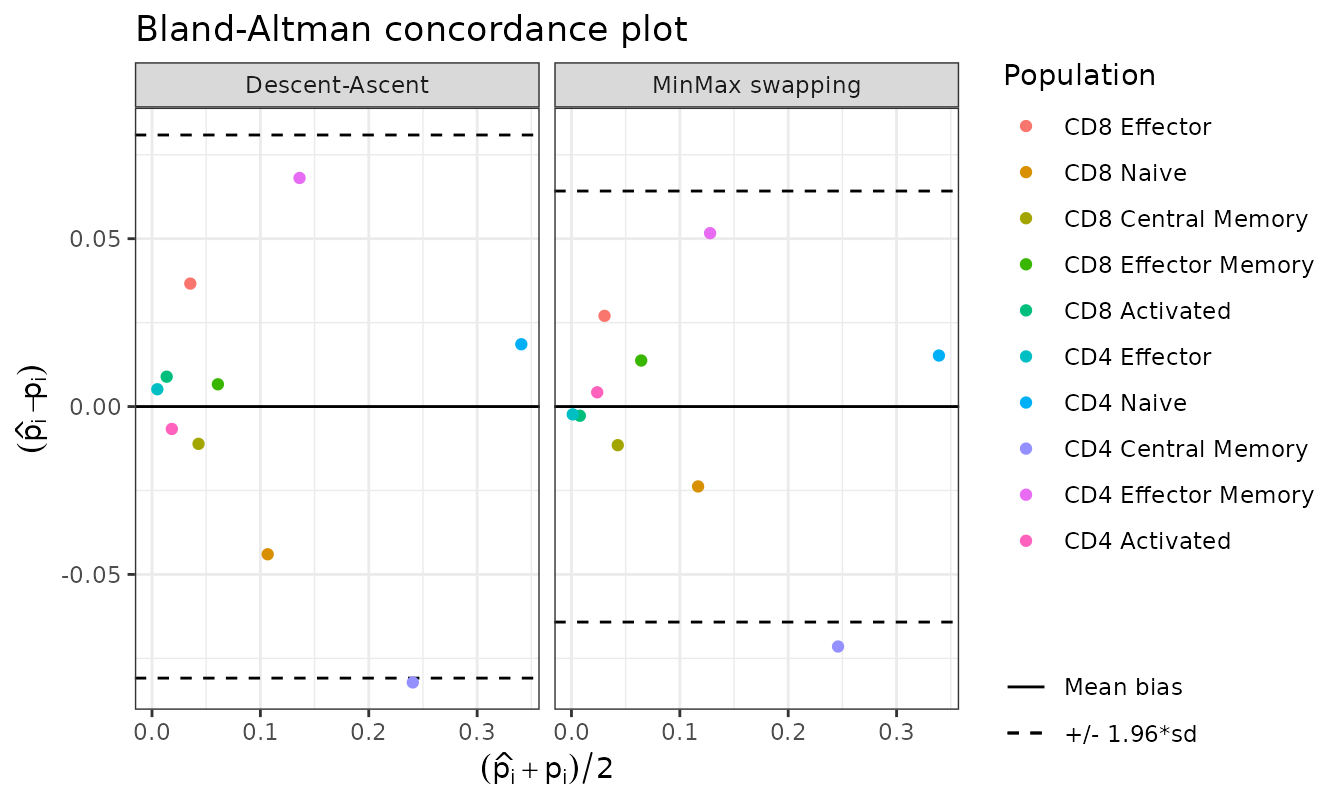
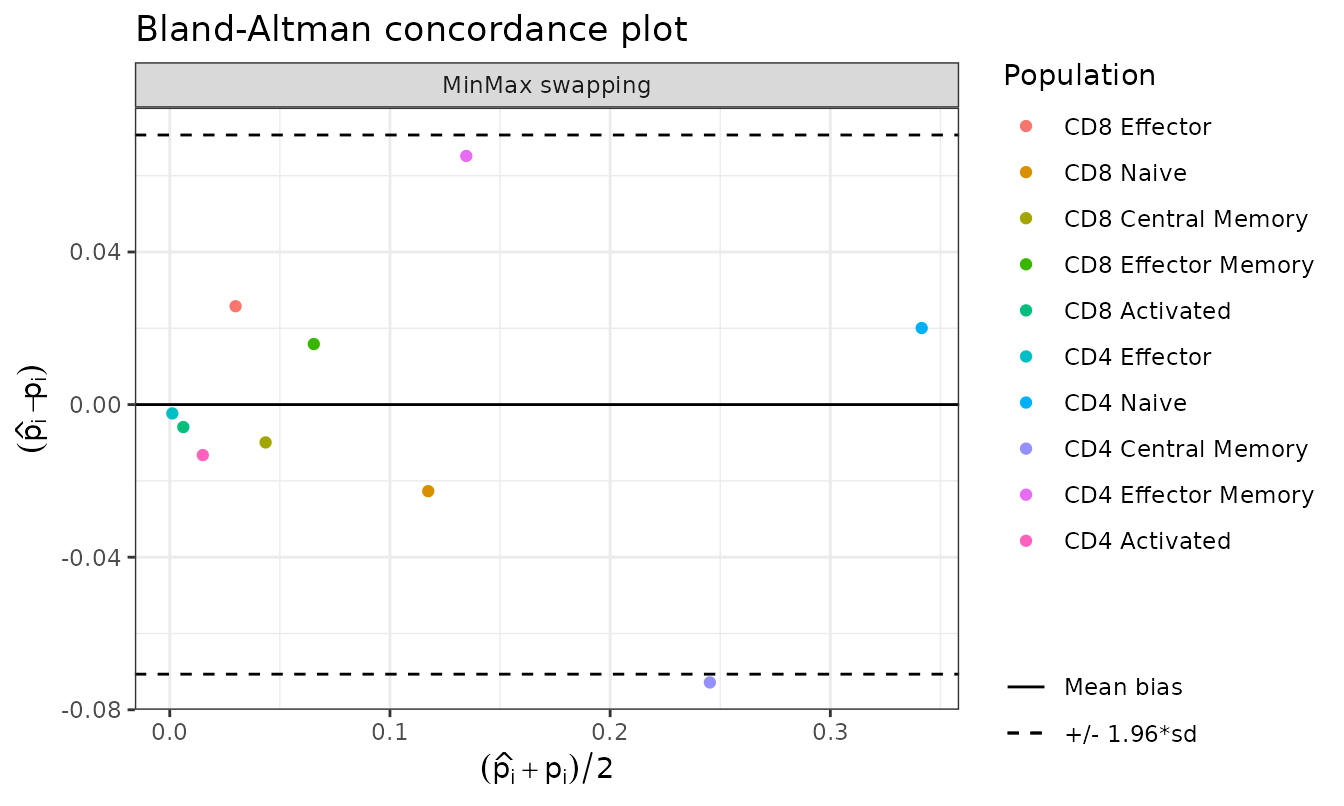
Deploying to gh-pages from @ sistm/CytOpT-R@363a717b3f185983c8fe9f3510b1256cfa89fb56 🚀

diff --git a/articles/CytOpt_HIPC.html b/articles/CytOpt_HIPC.html
@@ -26,7 +26,7 @@
 
     <a class="navbar-brand me-2" href="../index.html">CytOpT</a>
 
-    <small class="nav-text text-muted me-auto" data-bs-toggle="tooltip" data-bs-placement="bottom" title="">0.9.7</small>
+    <small class="nav-text text-muted me-auto" data-bs-toggle="tooltip" data-bs-placement="bottom" title="">0.9.8</small>
 
 
     <button class="navbar-toggler" type="button" data-bs-toggle="collapse" data-bs-target="#navbar" aria-controls="navbar" aria-expanded="false" aria-label="Toggle navigation">
@@ -65,7 +65,7 @@
                         <h4 data-toc-skip class="author">Paul Freulon,
 Jérémie Bigot, Kalidou BA, Boris Hejblum</h4>
             
-            <h4 data-toc-skip class="date">2025-03-28</h4>
+            <h4 data-toc-skip class="date">2025-03-31</h4>
       
       <small class="dont-index">Source: <a href="https://github.com/sistm/CytOpT-R/blob/main/vignettes/CytOpt_HIPC.Rmd" class="external-link"><code>vignettes/CytOpt_HIPC.Rmd</code></a></small>
       <div class="d-none name"><code>CytOpt_HIPC.Rmd</code></div>
@@ -212,17 +212,16 @@ compute those manual proportions with:</p>
 <h4 id="optimization">Optimization<a class="anchor" aria-label="anchor" href="#optimization"></a>
 </h4>
 <div class="sourceCode" id="cb3"><pre class="downlit sourceCode r">
-<code class="sourceCode R"><span><span class="fu"><a href="https://rdrr.io/r/base/Random.html" class="external-link">set.seed</a></span><span class="op">(</span><span class="fl">123</span><span class="op">)</span></span>
+<code class="sourceCode R"><span></span>
+<span><span class="fu"><a href="https://rdrr.io/r/base/Random.html" class="external-link">set.seed</a></span><span class="op">(</span><span class="fl">123</span><span class="op">)</span></span>
 <span><span class="va">res</span> <span class="op">&lt;-</span> <span class="fu"><a href="../reference/CytOpT.html">CytOpT</a></span><span class="op">(</span>X_s <span class="op">=</span> <span class="va">HIPC_Stanford_1228_1A</span>, X_t <span class="op">=</span> <span class="va">HIPC_Stanford_1369_1A</span>, </span>
 <span>              Lab_source <span class="op">=</span> <span class="va">HIPC_Stanford_1228_1A_labels</span>,</span>
 <span>              theta_true <span class="op">=</span> <span class="va">gold_standard_manual_prop</span>,</span>
-<span>              method<span class="op">=</span><span class="st">'both'</span>, monitoring <span class="op">=</span> <span class="cn">TRUE</span><span class="op">)</span></span>
+<span>              method<span class="op">=</span><span class="st">"minmax"</span>, monitoring <span class="op">=</span> <span class="cn">TRUE</span><span class="op">)</span></span>
 <span><span class="co">#&gt; Converting `X_s` from data.frame to matrix type</span></span>
 <span><span class="co">#&gt; Converting `X_t` from data.frame to matrix type</span></span>
-<span><span class="co">#&gt; Running Descent-ascent optimization...</span></span>
-<span><span class="co">#&gt; Done in 1.3 mins</span></span>
 <span><span class="co">#&gt; Running MinMax optimization...</span></span>
-<span><span class="co">#&gt; Done in 14.7 secs</span></span></code></pre></div>
+<span><span class="co">#&gt; Done in 15.2 secs</span></span></code></pre></div>
 </div>
 <div class="section level4">
 <h4 id="results">Results<a class="anchor" aria-label="anchor" href="#results"></a>
@@ -231,30 +230,30 @@ compute those manual proportions with:</p>
 are:</p>
 <div class="sourceCode" id="cb4"><pre class="downlit sourceCode r">
 <code class="sourceCode R"><span><span class="fu"><a href="https://rdrr.io/r/base/summary.html" class="external-link">summary</a></span><span class="op">(</span><span class="va">res</span><span class="op">)</span></span>
-<span><span class="co">#&gt; Estimation of cell proportions with Descent-Ascent and MinMax swapping from CytOpt:</span></span>
-<span><span class="co">#&gt;                     Gold_standard Descent_ascent       MinMax</span></span>
-<span><span class="co">#&gt; CD8 Effector          0.017004001    0.053633290 4.402435e-02</span></span>
-<span><span class="co">#&gt; CD8 Naive             0.128736173    0.084739020 1.049430e-01</span></span>
-<span><span class="co">#&gt; CD8 Central Memory    0.048481996    0.037373154 3.698478e-02</span></span>
-<span><span class="co">#&gt; CD8 Effector Memory   0.057484114    0.064117329 7.119731e-02</span></span>
-<span><span class="co">#&gt; CD8 Activated         0.009090374    0.017982756 6.355763e-03</span></span>
-<span><span class="co">#&gt; CD4 Effector          0.002324076    0.007482223 3.568602e-11</span></span>
-<span><span class="co">#&gt; CD4 Naive             0.331460344    0.350017744 3.466552e-01</span></span>
-<span><span class="co">#&gt; CD4 Central Memory    0.281713344    0.199538816 2.102409e-01</span></span>
-<span><span class="co">#&gt; CD4 Effector Memory   0.102082843    0.170171190 1.537333e-01</span></span>
-<span><span class="co">#&gt; CD4 Activated         0.021622735    0.014944477 2.586545e-02</span></span>
+<span><span class="co">#&gt; Estimation of cell proportions with MinMax swapping from CytOpt:</span></span>
+<span><span class="co">#&gt;                     Gold_standard       MinMax</span></span>
+<span><span class="co">#&gt; CD8 Effector          0.017004001 4.278324e-02</span></span>
+<span><span class="co">#&gt; CD8 Naive             0.128736173 1.060443e-01</span></span>
+<span><span class="co">#&gt; CD8 Central Memory    0.048481996 3.856270e-02</span></span>
+<span><span class="co">#&gt; CD8 Effector Memory   0.057484114 7.335332e-02</span></span>
+<span><span class="co">#&gt; CD8 Activated         0.009090374 3.204415e-03</span></span>
+<span><span class="co">#&gt; CD4 Effector          0.002324076 1.141515e-05</span></span>
+<span><span class="co">#&gt; CD4 Naive             0.331460344 3.515258e-01</span></span>
+<span><span class="co">#&gt; CD4 Central Memory    0.281713344 2.088838e-01</span></span>
+<span><span class="co">#&gt; CD4 Effector Memory   0.102082843 1.672465e-01</span></span>
+<span><span class="co">#&gt; CD4 Activated         0.021622735 8.384508e-03</span></span>
 <span><span class="co">#&gt; </span></span>
 <span><span class="co">#&gt; Final Kullback-Leibler divergences:</span></span>
-<span><span class="co">#&gt;  Descent-Ascent MinMax swapping </span></span>
-<span><span class="co">#&gt;      0.07615549      0.04497364 </span></span>
+<span><span class="co">#&gt; MinMax swapping </span></span>
+<span><span class="co">#&gt;      0.05737105 </span></span>
 <span><span class="co">#&gt; Number of iterations:</span></span>
-<span><span class="co">#&gt;  Descent-Ascent MinMax swapping </span></span>
-<span><span class="co">#&gt;            5000           10000</span></span></code></pre></div>
+<span><span class="co">#&gt; MinMax swapping </span></span>
+<span><span class="co">#&gt;           10000</span></span></code></pre></div>
 <p>Some visualizations are provided by the <code><a href="https://rdrr.io/r/graphics/plot.default.html" class="external-link">plot()</a></code>
 method:</p>
 <div class="sourceCode" id="cb5"><pre class="downlit sourceCode r">
 <code class="sourceCode R"><span><span class="fu"><a href="https://rdrr.io/r/graphics/plot.default.html" class="external-link">plot</a></span><span class="op">(</span><span class="va">res</span><span class="op">)</span></span>
-<span><span class="co">#&gt; Plotting KL divergence for iterations 10 to 1000 while there were at least 5000 iterations performed for each method.</span></span></code></pre></div>
+<span><span class="co">#&gt; Plotting KL divergence for iterations 10 to 1000 while there were at least 10000 iterations performed for each method.</span></span></code></pre></div>
 <p><img src="CytOpt_HIPC_files/figure-html/plots-1.png" width="672"></p>
 </div>
 <div class="section level4">

diff --git a/reference/summary.CytOpt.html b/reference/summary.CytOpt.html
@@ -7,7 +7,7 @@
 
     <a class="navbar-brand me-2" href="../index.html">CytOpT</a>
 
-    <small class="nav-text text-muted me-auto" data-bs-toggle="tooltip" data-bs-placement="bottom" title="">0.9.7</small>
+    <small class="nav-text text-muted me-auto" data-bs-toggle="tooltip" data-bs-placement="bottom" title="">0.9.8</small>
 
 
     <button class="navbar-toggler" type="button" data-bs-toggle="collapse" data-bs-target="#navbar" aria-controls="navbar" aria-expanded="false" aria-label="Toggle navigation">
@@ -67,10 +67,10 @@
     <h2 id="ref-examples">Examples<a class="anchor" aria-label="anchor" href="#ref-examples"></a></h2>
     <div class="sourceCode"><pre class="sourceCode r"><code><span class="r-in"><span><span class="kw">if</span><span class="op">(</span><span class="fu"><a href="https://rdrr.io/r/base/interactive.html" class="external-link">interactive</a></span><span class="op">(</span><span class="op">)</span><span class="op">)</span><span class="op">{</span></span></span>
 <span class="r-in"><span></span></span>
-<span class="r-in"><span><span class="va">res</span> <span class="op">&lt;-</span> <span class="fu"><a href="CytOpT.html">CytOpT</a></span><span class="op">(</span>X_s <span class="op">=</span> <span class="va">HIPC_Stanford_1228_1A</span>, X_t <span class="op">=</span> <span class="va">HIPC_Stanford_1369_1A</span>, </span></span>
+<span class="r-in"><span><span class="va">res</span> <span class="op">&lt;-</span> <span class="fu"><a href="CytOpT.html">CytOpT</a></span><span class="op">(</span>X_s <span class="op">=</span> <span class="va">HIPC_Stanford_1228_1A</span>, X_t <span class="op">=</span> <span class="va">HIPC_Stanford_1369_1A</span>,</span></span>
 <span class="r-in"><span>             Lab_source <span class="op">=</span> <span class="va">HIPC_Stanford_1228_1A_labels</span>,</span></span>
 <span class="r-in"><span>             eps <span class="op">=</span> <span class="fl">0.0001</span>, lbd <span class="op">=</span> <span class="fl">0.0001</span>, n_iter <span class="op">=</span> <span class="fl">10000</span>, n_stoc<span class="op">=</span><span class="fl">10</span>,</span></span>
-<span class="r-in"><span>             step_grad <span class="op">=</span> <span class="fl">10</span>, step <span class="op">=</span> <span class="fl">5</span>, power <span class="op">=</span> <span class="fl">0.99</span>, </span></span>
+<span class="r-in"><span>             step_grad <span class="op">=</span> <span class="fl">10</span>, step <span class="op">=</span> <span class="fl">5</span>, power <span class="op">=</span> <span class="fl">0.99</span>,</span></span>
 <span class="r-in"><span>             method<span class="op">=</span><span class="st">'minmax'</span>, monitoring<span class="op">=</span><span class="cn">TRUE</span><span class="op">)</span></span></span>
 <span class="r-in"><span><span class="fu"><a href="https://rdrr.io/r/base/summary.html" class="external-link">summary</a></span><span class="op">(</span><span class="va">res</span><span class="op">)</span></span></span>
 <span class="r-in"><span></span></span>

diff --git a/news/index.html b/news/index.html
@@ -7,7 +7,7 @@
 
     <a class="navbar-brand me-2" href="../index.html">CytOpT</a>
 
-    <small class="nav-text text-muted me-auto" data-bs-toggle="tooltip" data-bs-placement="bottom" title="">0.9.7</small>
+    <small class="nav-text text-muted me-auto" data-bs-toggle="tooltip" data-bs-placement="bottom" title="">0.9.8</small>
 
 
     <button class="navbar-toggler" type="button" data-bs-toggle="collapse" data-bs-target="#navbar" aria-controls="navbar" aria-expanded="false" aria-label="Toggle navigation">
@@ -36,10 +36,11 @@
     </div>
 
     <div class="section level2">
-<h2 class="pkg-version" data-toc-text="0.9.7" id="cytopt-097">CytOpT 0.9.7<a class="anchor" aria-label="anchor" href="#cytopt-097"></a></h2>
+<h2 class="pkg-version" data-toc-text="0.9.8" id="cytopt-098">CytOpT 0.9.8<a class="anchor" aria-label="anchor" href="#cytopt-098"></a></h2>
 <p><em>Minor release</em></p>
 <ul><li>typos and forced type conversion</li>
 <li>better management of Python dependencies as per reticulate &gt;=1.41</li>
+<li>enforcing thread usage limitation in the vignette</li>
 </ul></div>
     <div class="section level2">
 <h2 class="pkg-version" data-toc-text="0.9.4" id="cytopt-094">CytOpT 0.9.4<a class="anchor" aria-label="anchor" href="#cytopt-094"></a></h2><p class="text-muted">CRAN release: 2022-02-09</p>

diff --git a/authors.html b/authors.html
@@ -7,7 +7,7 @@
 
     <a class="navbar-brand me-2" href="index.html">CytOpT</a>
 
-    <small class="nav-text text-muted me-auto" data-bs-toggle="tooltip" data-bs-placement="bottom" title="">0.9.7</small>
+    <small class="nav-text text-muted me-auto" data-bs-toggle="tooltip" data-bs-placement="bottom" title="">0.9.8</small>
 
 
     <button class="navbar-toggler" type="button" data-bs-toggle="collapse" data-bs-target="#navbar" aria-controls="navbar" aria-expanded="false" aria-label="Toggle navigation">
@@ -58,7 +58,7 @@
       <p>Freulon P, Bigot J, Hejblum BP (2023).
 “CytOpT: Optimal Transport with Domain Adaptation for Interpreting Flow Cytometry data.”
 <em>Annals of Applied Statistics</em>, <b>17</b>(2), 1086-1104.
-<a href="https://doi.org/10.1214/22-AOAS1660" class="external-link">doi:10.1214/22-AOAS1660</a>, R package version 0.9.7.
+<a href="https://doi.org/10.1214/22-AOAS1660" class="external-link">doi:10.1214/22-AOAS1660</a>, R package version 0.9.8.
 </p>
       <pre>@Article{freulon2023cytopt,
   title = {CytOpT: Optimal Transport with Domain Adaptation for Interpreting Flow Cytometry data},
@@ -69,7 +69,7 @@
   number = {2},
   pages = {1086-1104},
   doi = {10.1214/22-AOAS1660},
-  note = {R package version 0.9.7},
+  note = {R package version 0.9.8},
 }</pre>
     </div>
 

diff --git a/reference/Bland_Altman.html b/reference/Bland_Altman.html
@@ -11,7 +11,7 @@ Requires that either theta_true or Lab_target was provided when running CytOpT()
 
     <a class="navbar-brand me-2" href="../index.html">CytOpT</a>
 
-    <small class="nav-text text-muted me-auto" data-bs-toggle="tooltip" data-bs-placement="bottom" title="">0.9.7</small>
+    <small class="nav-text text-muted me-auto" data-bs-toggle="tooltip" data-bs-placement="bottom" title="">0.9.8</small>
 
 
     <button class="navbar-toggler" type="button" data-bs-toggle="collapse" data-bs-target="#navbar" aria-controls="navbar" aria-expanded="false" aria-label="Toggle navigation">

diff --git a/reference/CytOpT.html b/reference/CytOpT.html
@@ -13,7 +13,7 @@ or two algorithms."><meta property="og:image" content="https://sistm.github.io/C
 
     <a class="navbar-brand me-2" href="../index.html">CytOpT</a>
 
-    <small class="nav-text text-muted me-auto" data-bs-toggle="tooltip" data-bs-placement="bottom" title="">0.9.7</small>
+    <small class="nav-text text-muted me-auto" data-bs-toggle="tooltip" data-bs-placement="bottom" title="">0.9.8</small>
 
 
     <button class="navbar-toggler" type="button" data-bs-toggle="collapse" data-bs-target="#navbar" aria-controls="navbar" aria-expanded="false" aria-label="Toggle navigation">

diff --git a/reference/Label_Prop_sto_r.html b/reference/Label_Prop_sto_r.html
@@ -11,7 +11,7 @@ Transport plan is approximated with the stochastic algorithm."><meta property="o
 
     <a class="navbar-brand me-2" href="../index.html">CytOpT</a>
 
-    <small class="nav-text text-muted me-auto" data-bs-toggle="tooltip" data-bs-placement="bottom" title="">0.9.7</small>
+    <small class="nav-text text-muted me-auto" data-bs-toggle="tooltip" data-bs-placement="bottom" title="">0.9.8</small>
 
 
     <button class="navbar-toggler" type="button" data-bs-toggle="collapse" data-bs-target="#navbar" aria-controls="navbar" aria-expanded="false" aria-label="Toggle navigation">

diff --git a/reference/cytopt_desasc_r.html b/reference/cytopt_desasc_r.html
@@ -11,7 +11,7 @@ the computation of the estimate of the class proportions is done with a descent 
 
     <a class="navbar-brand me-2" href="../index.html">CytOpT</a>
 
-    <small class="nav-text text-muted me-auto" data-bs-toggle="tooltip" data-bs-placement="bottom" title="">0.9.7</small>
+    <small class="nav-text text-muted me-auto" data-bs-toggle="tooltip" data-bs-placement="bottom" title="">0.9.8</small>
 
 
     <button class="navbar-toggler" type="button" data-bs-toggle="collapse" data-bs-target="#navbar" aria-controls="navbar" aria-expanded="false" aria-label="Toggle navigation">

diff --git a/reference/cytopt_minmax_r.html b/reference/cytopt_minmax_r.html
@@ -13,7 +13,7 @@ estimator."><meta property="og:image" content="https://sistm.github.io/CytOpT-R/
 
     <a class="navbar-brand me-2" href="../index.html">CytOpT</a>
 
-    <small class="nav-text text-muted me-auto" data-bs-toggle="tooltip" data-bs-placement="bottom" title="">0.9.7</small>
+    <small class="nav-text text-muted me-auto" data-bs-toggle="tooltip" data-bs-placement="bottom" title="">0.9.8</small>
 
 
     <button class="navbar-toggler" type="button" data-bs-toggle="collapse" data-bs-target="#navbar" aria-controls="navbar" aria-expanded="false" aria-label="Toggle navigation">

diff --git a/reference/KL_plot.html b/reference/KL_plot.html
@@ -9,7 +9,7 @@ iterations of the optimization algorithm(s)."><meta property="og:image" content=
 
     <a class="navbar-brand me-2" href="../index.html">CytOpT</a>
 
-    <small class="nav-text text-muted me-auto" data-bs-toggle="tooltip" data-bs-placement="bottom" title="">0.9.7</small>
+    <small class="nav-text text-muted me-auto" data-bs-toggle="tooltip" data-bs-placement="bottom" title="">0.9.8</small>
 
 
     <button class="navbar-toggler" type="button" data-bs-toggle="collapse" data-bs-target="#navbar" aria-controls="navbar" aria-expanded="false" aria-label="Toggle navigation">

diff --git a/reference/barplot_prop.html b/reference/barplot_prop.html
@@ -9,7 +9,7 @@ of the class proportions and the estimate of the class proportions provided thro
 
     <a class="navbar-brand me-2" href="../index.html">CytOpT</a>
 
-    <small class="nav-text text-muted me-auto" data-bs-toggle="tooltip" data-bs-placement="bottom" title="">0.9.7</small>
+    <small class="nav-text text-muted me-auto" data-bs-toggle="tooltip" data-bs-placement="bottom" title="">0.9.8</small>
 
 
     <button class="navbar-toggler" type="button" data-bs-toggle="collapse" data-bs-target="#navbar" aria-controls="navbar" aria-expanded="false" aria-label="Toggle navigation">

diff --git a/404.html b/404.html
@@ -27,7 +27,7 @@
 
     <a class="navbar-brand me-2" href="https://sistm.github.io/CytOpT-R/index.html">CytOpT</a>
 
-    <small class="nav-text text-muted me-auto" data-bs-toggle="tooltip" data-bs-placement="bottom" title="">0.9.7</small>
+    <small class="nav-text text-muted me-auto" data-bs-toggle="tooltip" data-bs-placement="bottom" title="">0.9.8</small>
 
 
     <button class="navbar-toggler" type="button" data-bs-toggle="collapse" data-bs-target="#navbar" aria-controls="navbar" aria-expanded="false" aria-label="Toggle navigation">
